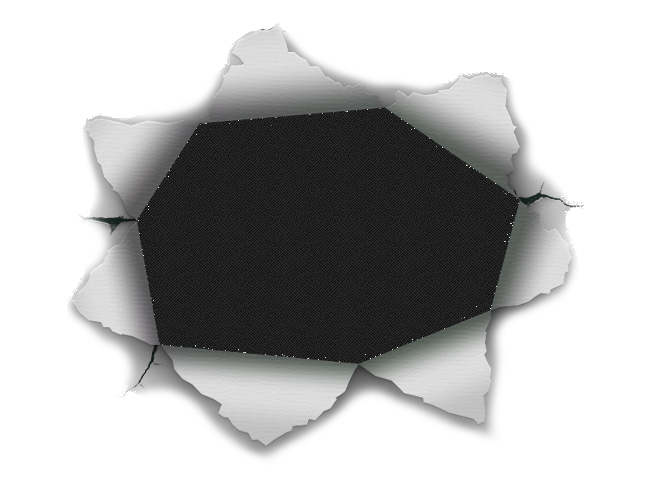
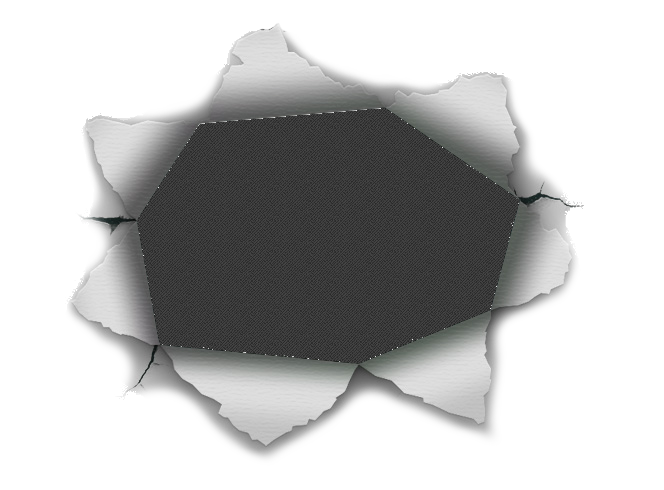
Update

Changed region(s): [[0.2108, 0.2143, 0.7831, 0.7653]]

diff --git a/404.html b/404.html
@@ -12,7 +12,7 @@
   <!-- CSS -->
   <link rel="stylesheet" type="text/css" href="css/site_global.css?4052507572"/>
   <link rel="stylesheet" type="text/css" href="css/master_main.css?48038226"/>
-  <link rel="stylesheet" type="text/css" href="css/404.css?466750118" id="pagesheet"/>
+  <link rel="stylesheet" type="text/css" href="css/404.css?508907310" id="pagesheet"/>
   <!-- Other scripts -->
   <script type="text/javascript">
    document.documentElement.className += ' js';
@@ -87,8 +87,8 @@ var __adobewebfontsappname__ = "muse";
       <p id="u1380-7">You're looking for something</p>
       <p id="u1380-9">that doesn't actually exist</p>
      </div>
-     <div class="clip_frame grpelem" id="u1399"><!-- image -->
-      <img class="block" id="u1399_img" src="images/404.png" alt="" width="664" height="490"/>
+     <div class="clip_frame grpelem" id="u1405"><!-- image -->
+      <img class="block" id="u1405_img" src="images/404.png" alt="" width="664" height="490"/>
      </div>
     </div>
     <div class="verticalspacer"></div>

diff --git a/css/404.css b/css/404.css
@@ -1,7 +1,7 @@
 .version._404 /* version checker */
 {
-	color: #00001B;
-	background-color: #D20AA6;
+	color: #00001E;
+	background-color: #554F2E;
 }
 
 .html
@@ -409,14 +409,14 @@
 	line-height: 19px;
 }
 
-#u1399
+#u1405
 {
 	z-index: 70;
 	width: 664px;
 	background-color: transparent;
 	position: relative;
 	margin-right: -10000px;
-	margin-top: 64px;
+	margin-top: 55px;
 	left: 67px;
 }
 
